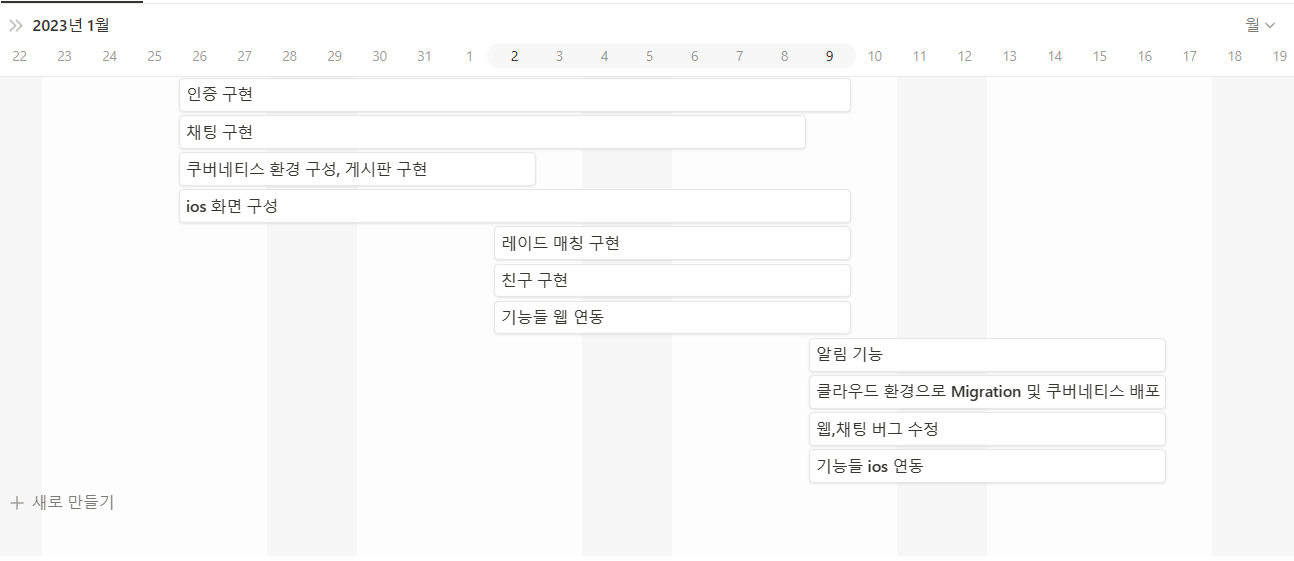
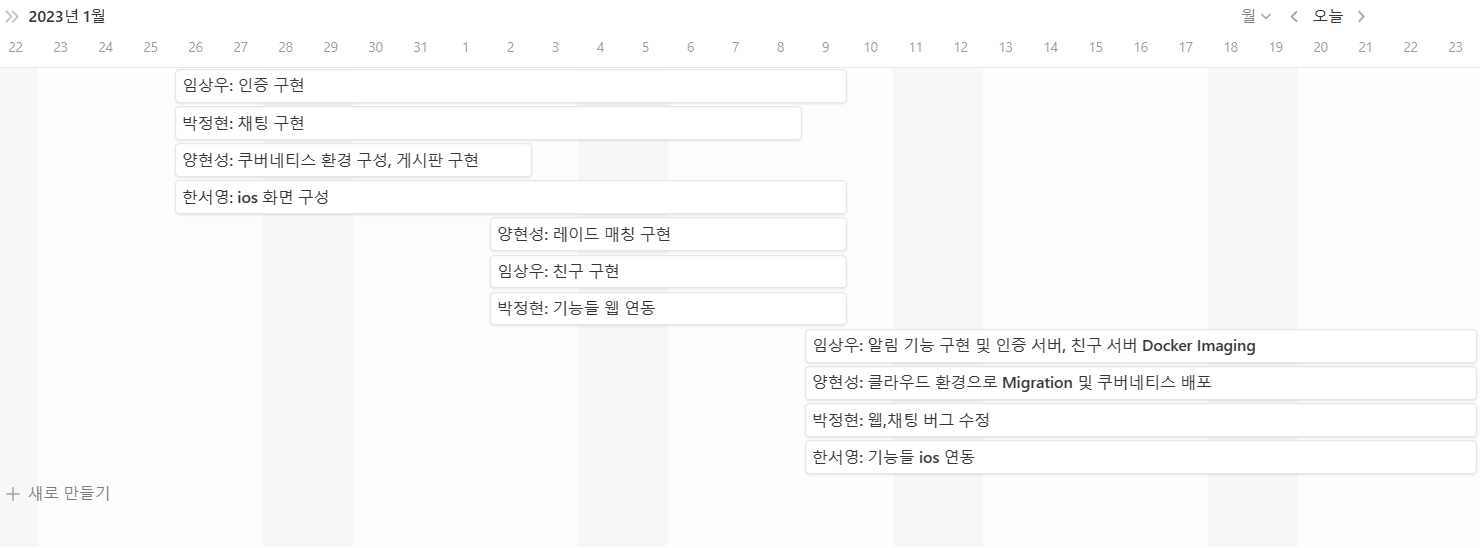
2.업무 분석 보고서

diff --git a/src/README.md b/src/README.md
@@ -8,7 +8,7 @@
 
 ## 1. 프로젝트 기획서
 ### 팀 구성 및 담당업무
-- 양현성: 자동매칭 시스템 설계 및 구현 / 게시글 작성 및 관리 / 게시글 리스트 / 게시글 좋아요 / 댓글 / K8s를 이용한 백엔드 기능들의 전반적인 시스템 인프라 설계 및 구축 / 클라우드 네이티브 환경으로 Migration
+- 양현성: 자동매칭 시스템 설계 및 구현 / 게시글 작성 및 관리 / 게시글 리스트 / 게시글 좋아요 / 댓글 / K8s를 이용한 백엔드 기능들의 전반적인 시스템 인프라 설계 및 구축 / AWS 클라우드 네이티브 환경으로 Migration
 - 임상우:
 - 박정현:
 - 한서영:
@@ -16,14 +16,24 @@
 ### 프로젝트 개요
 - ### Loatus 프로젝트
     - 관련 분야: 커뮤니티 서비스
-    - 개발 기간: 2023. 01. 23 ~ 2023. 02. 23
+    - 개발 기간: 2023. 01. 25 ~ 2023. 02. 23
     - 운영 체제: Linux
-    - DB: MySQL, Redis, RDS(MySQL), ElasticCache(Redis)
+    - DB: MySQL, Redis
     - 사용 언어: Python, Java, JavaScript, HTML, CSS, TypeScript
+    - 그 외 SW: Docker, Kubernetes, AWS Cloud(EKS(Kubernetes), RDS(MySQL), ElasticCache(Redis), EFS(NFS), VPC, EC2, Cloud9), Django,
 - ### 개요
     - ### 로스트아크 게임 계정 연동을 통한 유저들의 레이드 매칭 및 친목 도모를 위한 커뮤니티 사이트
 
-
-
-
+## 업무분석 보고서
+- 개발 팀 이름: Lotus
+- 개발 분야: 클라우드 환경에서 Kubernetes를 이용한 Django, Spring, NestJS 웹 애플리케이션 배포
+- 팀 구성
+    - 팀장: 양현성
+    - 팀원: 임상우, 박정현, 한서영
+- 목적
+    - 인게임 계정 정보가 연동된 커뮤니티 사이트를 만든다.
+    - 레이드 파티를 찾고자 하는 유저들을 위해 기본적인 커뮤니티 기능을 제공한다.
+    - 로스트아크 오픈API를 기반으로 비슷한 스펙의 유저들끼리의 자동매칭 기능을 지원한다.
+- 프로젝트 개발 일정
+![img](./images/0227-1.png)
 
